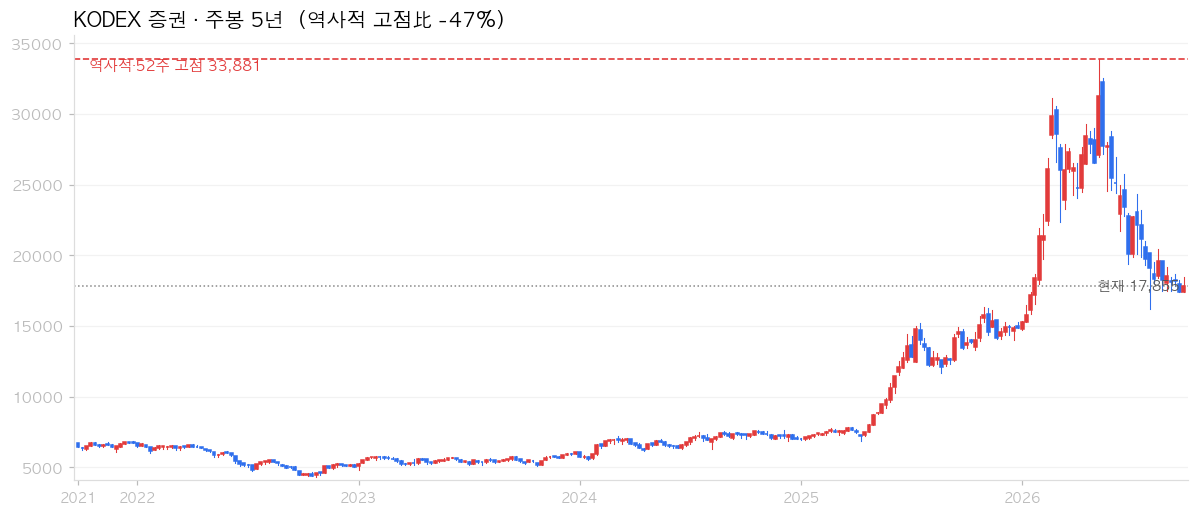
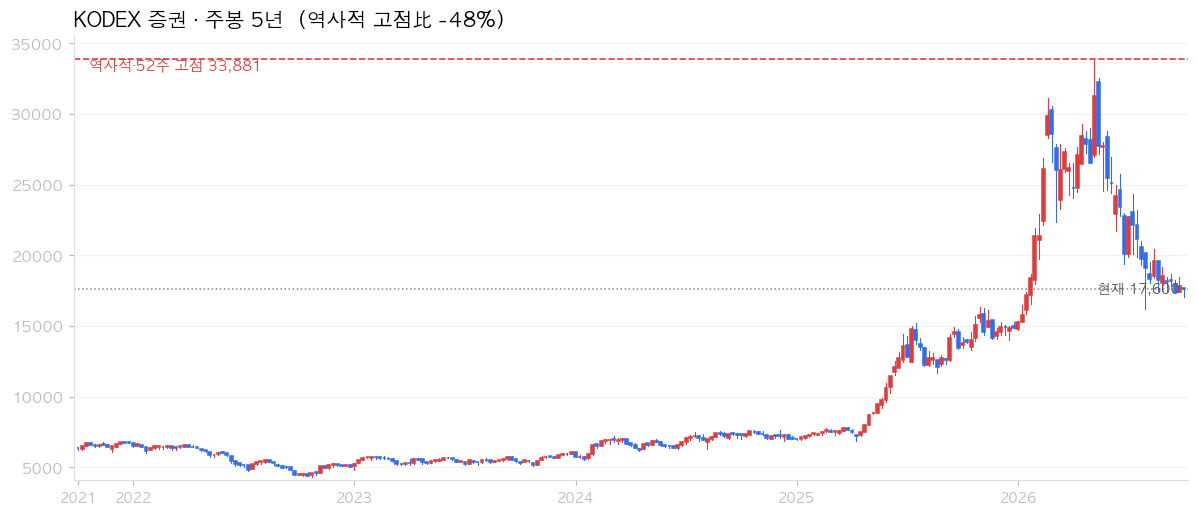
산업 사이클 지도 2026-10-04

diff --git a/_posts/2026-10-04-etf-cycle.md b/_posts/2026-10-04-etf-cycle.md
@@ -1,0 +1,111 @@
+---
+title: "산업 사이클 지도 — 지금 어느 업종이 저점권일까 (2026.10 첫째주)"
+categories: [money]
+tags: [주식투자, ETF, 산업사이클]
+permalink: /money/2026-10-04-etf-cycle/
+excerpt: "산업 ETF 주봉 5년 + 역사적/52주 고점 · 저점권 게임, 미디어·엔터, 2차전지, 바이오·헬스, 증권, 방산"
+header:
+  og_image: /assets/images/etf-cycle/300950.png
+---
+
+업종은 저마다의 사이클로 고점·저점을 반복합니다. 산업 ETF 주봉(5년)에 **역사적 고점·52주 고점 선**을 그어, 지금 각 업종이 고점 대비 어디쯤인지 장기 관점으로 기록합니다. 낙폭이 깊은 **저점권**부터 정렬했습니다. (매수 추천이 아니라 위치 기록)
+
+#### 게임 · 저점권  (KODEX 게임산업 · 300950)
+
+<img src="/assets/images/etf-cycle/300950.png" alt="게임 주봉" style="width:100%;max-width:760px">
+
+고점 대비 -72%. 사이클 저점권 — 장기 관찰 대상. [📈 차트 크게 보기(줌)](https://finance.naver.com/item/fchart.naver?code=300950)
+
+#### 미디어·엔터 · 저점권  (KODEX 미디어&엔터 · 266360)
+
+<img src="/assets/images/etf-cycle/266360.png" alt="미디어·엔터 주봉" style="width:100%;max-width:760px">
+
+고점 대비 -67%. 사이클 저점권 — 장기 관찰 대상. [📈 차트 크게 보기(줌)](https://finance.naver.com/item/fchart.naver?code=266360)
+
+#### 2차전지 · 저점권  (KODEX 2차전지산업 · 305720)
+
+<img src="/assets/images/etf-cycle/305720.png" alt="2차전지 주봉" style="width:100%;max-width:760px">
+
+고점 대비 -63%. 사이클 저점권 — 장기 관찰 대상. [📈 차트 크게 보기(줌)](https://finance.naver.com/item/fchart.naver?code=305720)
+
+#### 바이오·헬스 · 저점권  (KODEX 바이오 · 244580)
+
+<img src="/assets/images/etf-cycle/244580.png" alt="바이오·헬스 주봉" style="width:100%;max-width:760px">
+
+고점 대비 -54%. 사이클 저점권 — 장기 관찰 대상. [📈 차트 크게 보기(줌)](https://finance.naver.com/item/fchart.naver?code=244580)
+
+#### 증권 · 저점권  (KODEX 증권 · 102970)
+
+<img src="/assets/images/etf-cycle/102970.png" alt="증권 주봉" style="width:100%;max-width:760px">
+
+고점 대비 -48%. 사이클 저점권 — 장기 관찰 대상. [📈 차트 크게 보기(줌)](https://finance.naver.com/item/fchart.naver?code=102970)
+
+#### 방산 · 저점권  (PLUS K방산 · 449450)
+
+<img src="/assets/images/etf-cycle/449450.png" alt="방산 주봉" style="width:100%;max-width:760px">
+
+고점 대비 -41%. 사이클 저점권 — 장기 관찰 대상. [📈 차트 크게 보기(줌)](https://finance.naver.com/item/fchart.naver?code=449450)
+
+#### 자동차 · 중립  (KODEX 자동차 · 091180)
+
+<img src="/assets/images/etf-cycle/091180.png" alt="자동차 주봉" style="width:100%;max-width:760px">
+
+고점 대비 -40%. 저점권도 고점권도 아닌 중립. [📈 차트 크게 보기(줌)](https://finance.naver.com/item/fchart.naver?code=091180)
+
+#### 조선 · 중립  (SOL 조선TOP3플러스 · 466920)
+
+<img src="/assets/images/etf-cycle/466920.png" alt="조선 주봉" style="width:100%;max-width:760px">
+
+고점 대비 -39%. 저점권도 고점권도 아닌 중립. [📈 차트 크게 보기(줌)](https://finance.naver.com/item/fchart.naver?code=466920)
+
+#### 에너지화학 · 중립  (KODEX 에너지화학 · 117460)
+
+<img src="/assets/images/etf-cycle/117460.png" alt="에너지화학 주봉" style="width:100%;max-width:760px">
+
+고점 대비 -34%. 저점권도 고점권도 아닌 중립. [📈 차트 크게 보기(줌)](https://finance.naver.com/item/fchart.naver?code=117460)
+
+#### 건설 · 중립  (KODEX 건설 · 117700)
+
+<img src="/assets/images/etf-cycle/117700.png" alt="건설 주봉" style="width:100%;max-width:760px">
+
+고점 대비 -33%. 저점권도 고점권도 아닌 중립. [📈 차트 크게 보기(줌)](https://finance.naver.com/item/fchart.naver?code=117700)
+
+#### IT·인터넷 · 중립  (TIGER 200 IT · 139260)
+
+<img src="/assets/images/etf-cycle/139260.png" alt="IT·인터넷 주봉" style="width:100%;max-width:760px">
+
+고점 대비 -32%. 저점권도 고점권도 아닌 중립. [📈 차트 크게 보기(줌)](https://finance.naver.com/item/fchart.naver?code=139260)
+
+#### 철강 · 중립  (KODEX 철강 · 117680)
+
+<img src="/assets/images/etf-cycle/117680.png" alt="철강 주봉" style="width:100%;max-width:760px">
+
+고점 대비 -32%. 저점권도 고점권도 아닌 중립. [📈 차트 크게 보기(줌)](https://finance.naver.com/item/fchart.naver?code=117680)
+
+#### 반도체 · 중립  (KODEX 반도체 · 091160)
+
+<img src="/assets/images/etf-cycle/091160.png" alt="반도체 주봉" style="width:100%;max-width:760px">
+
+고점 대비 -21%. 저점권도 고점권도 아닌 중립. [📈 차트 크게 보기(줌)](https://finance.naver.com/item/fchart.naver?code=091160)
+
+#### 운송 · 중립  (KODEX 운송 · 140710)
+
+<img src="/assets/images/etf-cycle/140710.png" alt="운송 주봉" style="width:100%;max-width:760px">
+
+고점 대비 -13%. 저점권도 고점권도 아닌 중립. [📈 차트 크게 보기(줌)](https://finance.naver.com/item/fchart.naver?code=140710)
+
+#### 보험 · 고점권  (KODEX 보험 · 140700)
+
+<img src="/assets/images/etf-cycle/140700.png" alt="보험 주봉" style="width:100%;max-width:760px">
+
+고점 부근(-11%). 위치가 높아 신규 진입은 신중. [📈 차트 크게 보기(줌)](https://finance.naver.com/item/fchart.naver?code=140700)
+
+#### 은행 · 고점권  (KODEX 은행 · 091170)
+
+<img src="/assets/images/etf-cycle/091170.png" alt="은행 주봉" style="width:100%;max-width:760px">
+
+고점 부근(-9%). 위치가 높아 신규 진입은 신중. [📈 차트 크게 보기(줌)](https://finance.naver.com/item/fchart.naver?code=091170)
+
+이번 주 기준 저점권은 **게임, 미디어·엔터, 2차전지, 바이오·헬스, 증권, 방산**. 저는 저점권 업종을 장기 후보로만 적어두고 시간을 두고 봅니다.
+
+> 개인적인 장기 관점 기록이며 특정 종목·ETF의 매수/매도를 권유하지 않습니다. 사이클 위치는 참고용입니다.
